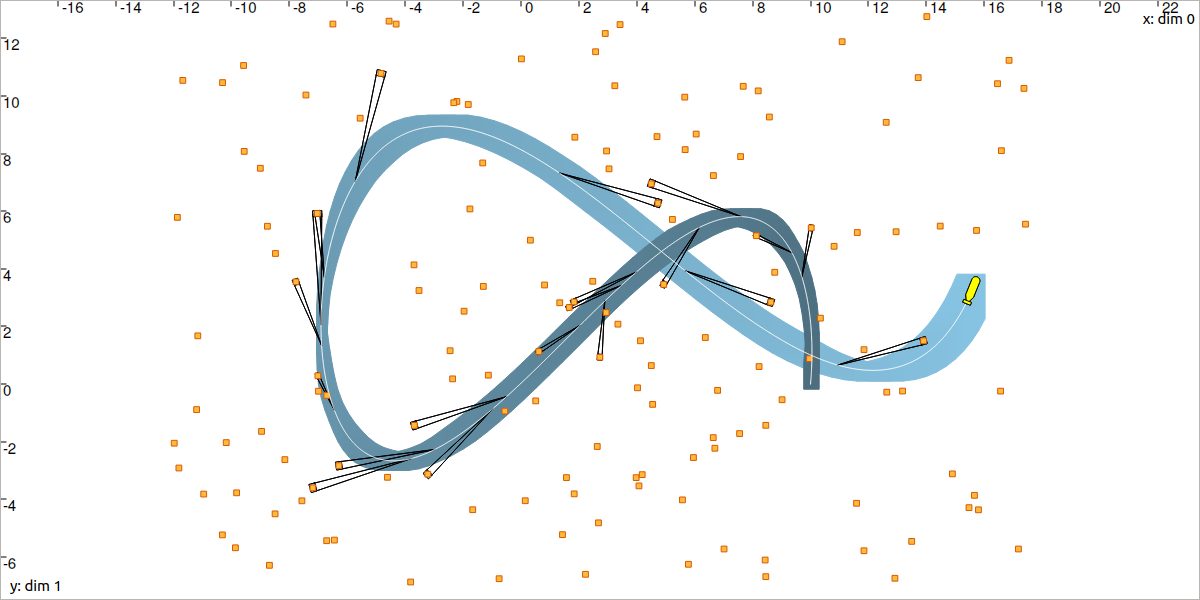
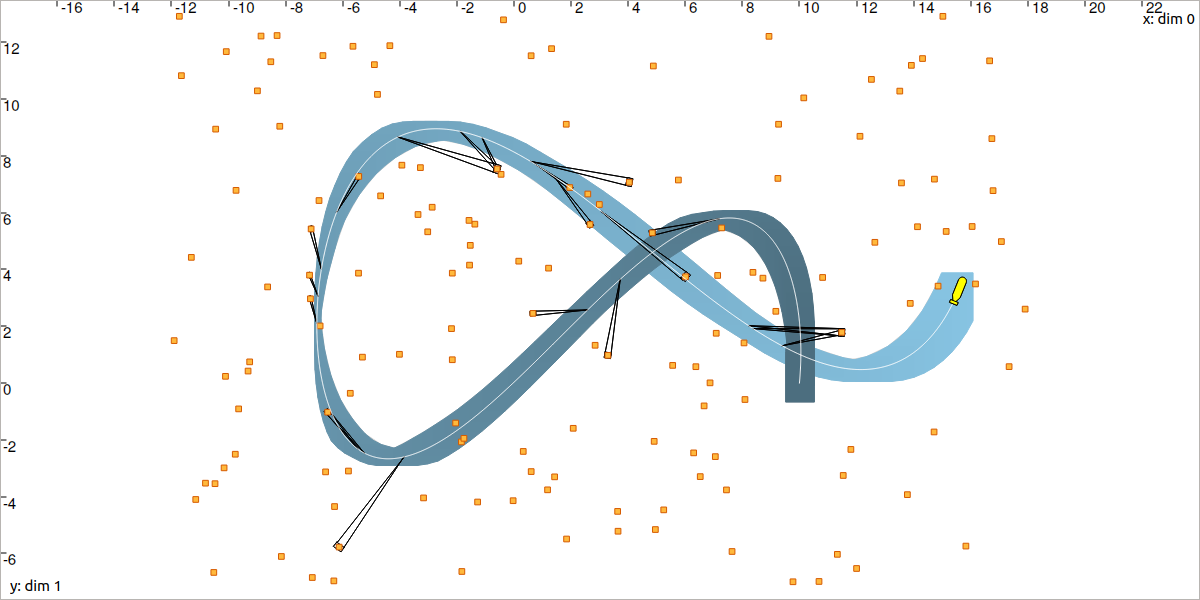
[doc] updated Lesson G with anim (smoothing) and C++ code

diff --git a/doc/doc/tutorial/07-data-association/index.rst b/doc/doc/tutorial/07-data-association/index.rst
@@ -103,14 +103,18 @@ The robot evolves in an environment made of 150 landmarks that are all indisting
 
       // Creating random map of landmarks
       int nb_landmarks = 150;
-      IntervalVector map_area(actual_x.codomain().subvector(0,1)).inflate(2);
-      vector<IntervalVector> v_map = DataLoader.generate_landmarks_boxes(map_area, nb_landmarks);
+      IntervalVector map_area(actual_x.codomain().subvector(0,1));
+      map_area.inflate(2);
+      vector<IntervalVector> v_map =
+        DataLoader::generate_landmarks_boxes(map_area, nb_landmarks);
 
       // Generating observations obs=(t,range,bearing) of these landmarks
       int max_nb_obs = 20;
       Interval visi_range(0,4); // [0m,75m]
-      Interval visi_angle(-math.pi/4,math.pi/4); // frontal sonar
-      vector<IntervalVector> v_obs = DataLoader.generate_observations(actual_x, v_map, max_nb_obs, True, visi_range, visi_angle);
+      Interval visi_angle(-M_PI/4,M_PI/4); // frontal sonar
+      vector<IntervalVector> v_obs =
+        DataLoader::generate_observations(actual_x, v_map, max_nb_obs,
+                                          true, visi_range, visi_angle);
 
   | **G.3.** The variable ``v_obs`` contains the measurement boxes. Each measurement box has three dimensions: time :math:`t`, range :math:`y_1` and bearing :math:`y_2`. In the above code, these values are intervals with no uncertainty.
   | Inflate these intervals in order to ensure that the actual values :math:`\mathbf{y}^*` are bounded by:
@@ -127,7 +131,7 @@ The robot evolves in an environment made of 150 landmarks that are all indisting
 
   .. figure:: img/datasso_obs.png
 
-    Black pies depict the range-and-bearing measurements with uncertainties.
+    Black pies depict the range-and-bearing measurements with uncertainties. Note that on this figure, landmarks boxes have been inflated for display purposes.
 
 At this point of the lesson, the robot perceives some of the 150 landmarks. It is not able to know which landmarks have been seen, and it has no knowledge about its own trajectory or its initial position.
 
@@ -165,14 +169,6 @@ Resolution
 
   **G.8.** Build a new Contractor Network for solving the problem.
 
-
-You should obtain a result similar to:
-
-.. figure:: img/datasso_solved.png
-  
-  Localization by solving data association: the state trajectory :math:`\mathbf{x}(\cdot)` (in white) has been estimated (in blue) together with the identification of the perceived landmarks.
-
-
 .. tip::
 
   The ``cn.contract()`` method runs the propagation of the contractions. You can set the optional boolean argument to *true* in order to activate the *verbose* mode:
@@ -200,14 +196,39 @@ You should obtain a result similar to:
   The high number of domains and contractors is due to some automatic and hidden decompositions performed by the CN itself. We recall that tubes are implemented as sets of slices; in our case, because :math:`\delta` = ``dt`` = 0.05, the tubes are made of :math:`6/0.05=120` slices. Some constraints defined on tubes can be broken down to the slice level, which allows accurate propagations. This is automatically done by the library.
 
 
-.. rubric:: Why is this problem difficult?
+You should obtain a result similar to:
+
+.. figure:: img/datasso_solved.png
+  
+  Localization by solving data association: the state trajectory :math:`\mathbf{x}(\cdot)` (in white) has been estimated (in blue) together with the identification of the perceived landmarks.
+
+
+.. tip::
+
+  As we said, a tube is implemented as a list of slices. Drawing a tube in the ``VIBesFigMap`` consists in displaying the projection of its slices. This leads to boxes drawn with some overlapping. When the sampling :math:`\delta` of the tube is light (when it is made of few slices), then we obtain a jagged result. The following code allows a nicer result, with a polygonal drawing between the slices:
+
+  .. tabs::
+
+    .. code-tab:: py
+
+      fig_map.smooth_tube_drawing(True)
+
+    .. code-tab:: cpp
+
+      fig_map.smooth_tube_drawing(true);
+
+  The following animation highlights this feature:
+
+  .. figure:: img/smoothing.gif
+
+
+.. rubric:: Why is this problem of localization and data association difficult?
 
 #. We do not know the **initial condition** of the system. Contrary to other approaches, this solver made of contractors does not require some initial vector :math:`\mathbf{x}_0` to start the estimation. Information is taken into account from anytime in :math:`[t_0,t_f]`.
 
 #. The constraints are heterogeneous: some of them are said **continuous** (they act on continuous domains of values, for instance intervals). Other are **discrete** (for instance, the identity of landmarks, estimated among a discrete set of :math:`n` possible values). And finally, some constraints come from **differential equations** (for instance for depicting the robot evolution). In this solver, we show that any kind of constraint can be combined, without going into a complex resolution algorithm.
 
 #. We do **not have to linearize**, and thus there is no approximation made here. This means that the equations are directly set in the solver, without transformation. Furthermore, the results are **reliable**: we can guarantee that the actual trajectory is inside the tube :math:`[\mathbf{x}](\cdot)`.
-
 
 
 Now, we will end this tutorial with a last application: a range-only SLAM problem. In this example, the position of the landmarks will be estimated together with the localization of the robot. We will finally see how this can be processed for real-time applications.
